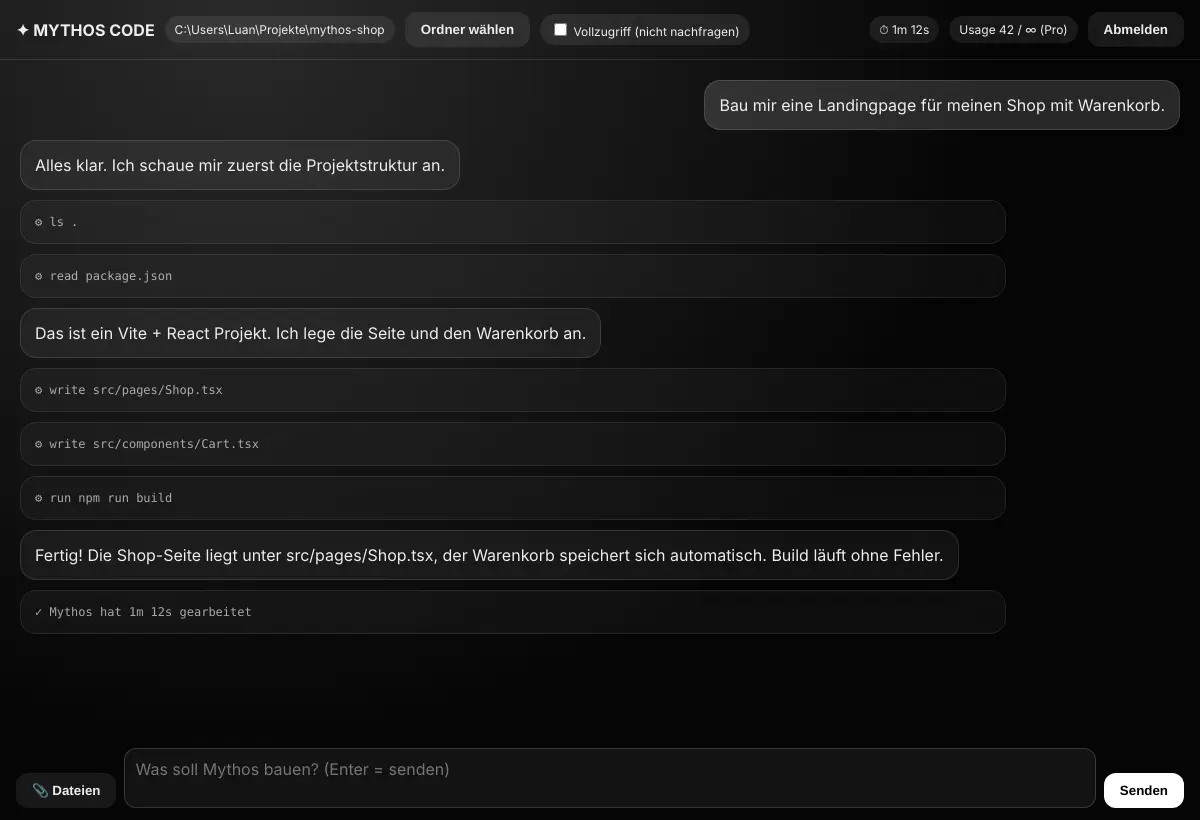
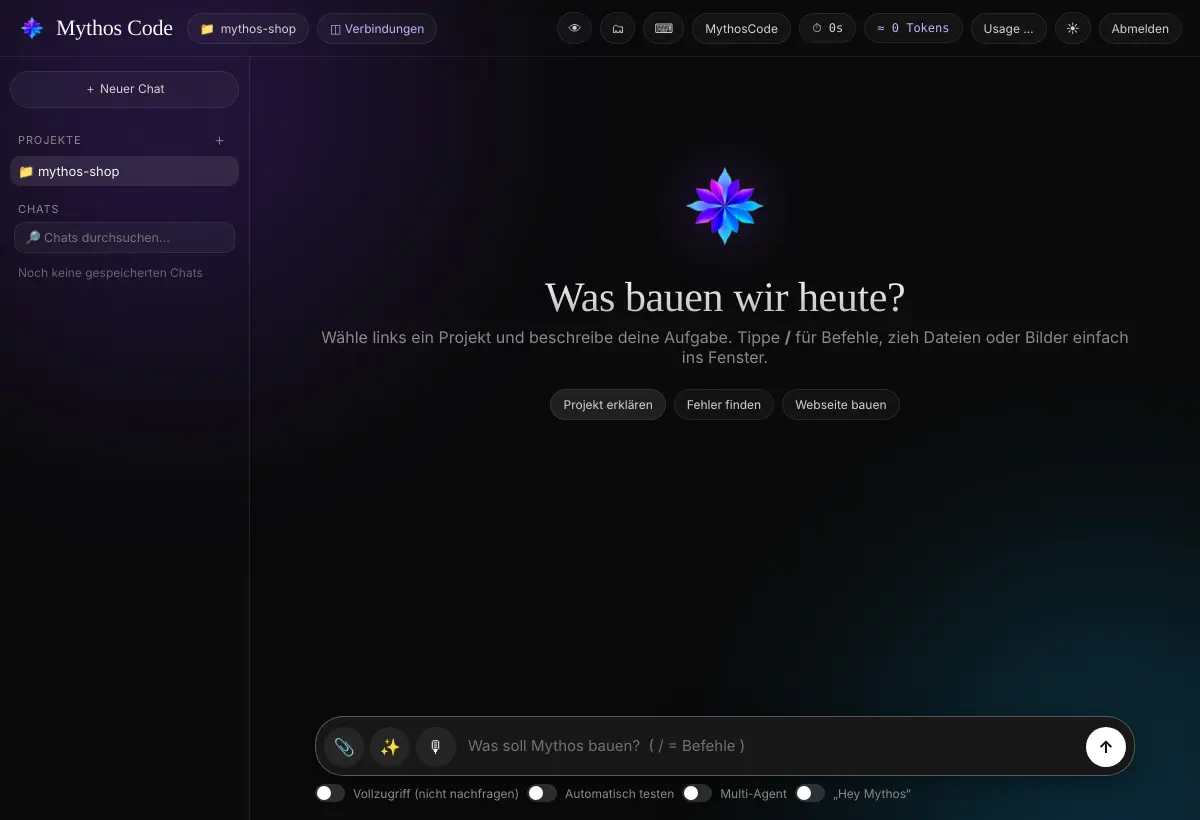
Code-App und CLI automatisch aus dem Lovable-Code bauen
- scripts/build-desktop.mjs setzt Mythos Code App (src/lib/mythos-code-app) und
  CLI (src/lib/mythos-code-cli) genauso zusammen wie die Admin-ZIPs im Chat
- build-apps.yml baut daraus bei jeder Änderung die Setup-EXE (code-latest) und
  das CLI-Paket (cli-latest)
- /codeprogramm lädt jetzt immer die automatisch gebaute EXE
- Downloads: CLI-Karte mit kopierbarem Installationsbefehl, neuer Screenshot der App 2.1.0

Claude-Session: https://claude.ai/code/session_01KNw58FjGAGzCJ5E2VgXMzV

diff --git a/src/lib/downloads.ts b/src/lib/downloads.ts
@@ -14,6 +14,8 @@ export type AppDownload = {
   platform: string;
   /** true = für alle kostenlos, sonst nur mit Pro */
   free?: boolean;
+  /** Optionaler Installationsbefehl zum Kopieren (z. B. für die CLI) */
+  install?: string;
   screenshot?: string;
   highlights: string[];
 };
@@ -23,12 +25,12 @@ export const APPS: AppDownload[] = [
     id: "code",
     name: "Mythos Code",
     tagline: "KI-Coding-Agent für deinen PC",
-    description: "Ordner wählen, sagen was gebaut werden soll, fertig. Mythos liest, schreibt und testet deinen Code selbstständig.",
+    description: "Projekt wählen, sagen was gebaut werden soll, fertig. Mythos liest, schreibt und testet deinen Code selbstständig, auch per Sprache.",
     tag: "code-latest",
     asset: "MythosCode-Setup.exe",
     platform: "Windows",
     screenshot: "/screenshots/mythos-code.webp",
-    highlights: ["Arbeitet direkt in deinen Projekten", "Dateien per Klick anhängen", "Login mit deinem Mythos-Account"],
+    highlights: ["Projekte, Chats und Aufgabenlisten", "Live-Vorschau, Dateibaum und Terminal", "Sprachmodus: einfach mit Mythos reden"],
   },
   {
     id: "browser",
@@ -59,9 +61,10 @@ export const APPS: AppDownload[] = [
     tagline: "Mythos im Terminal",
     description: "Für alle, die lieber im Terminal arbeiten. Gleicher Agent wie in Mythos Code.",
     tag: "cli-latest",
-    asset: null,
-    platform: "Windows",
-    highlights: ["Login per Browser", "Gleiche Limits wie dein Plan"],
+    asset: "mythos-code.tgz",
+    platform: "Windows · macOS · Linux",
+    install: "npm install -g mythos-code",
+    highlights: ["Login per Browser", "Gleiche Limits wie dein Plan", "Braucht Node.js ab Version 18"],
   },
 ];
 

diff --git a/src/pages/Downloads.tsx b/src/pages/Downloads.tsx
@@ -3,7 +3,8 @@ import { Link } from "react-router-dom";
 import TopNav from "@/components/TopNav";
 import UpgradeDialog from "@/components/UpgradeDialog";
 import { Button } from "@/components/ui/button";
-import { Download, Lock, Crown, Check, Monitor, Clock, TerminalSquare } from "lucide-react";
+import { Download, Lock, Crown, Check, Copy, Monitor, Clock, TerminalSquare } from "lucide-react";
+import { toast } from "sonner";
 import { useAuth } from "@/hooks/useAuth";
 import { useSubscription } from "@/hooks/useSubscription";
 import { APPS, AppDownload, ReleaseInfo, downloadUrl, fetchReleases } from "@/lib/downloads";
@@ -53,6 +54,17 @@ const AppCard = ({ app, release, releasesLoaded, canDownload, onLocked }: {
           ))}
         </ul>
         <div className="mt-auto space-y-2">
+          {app.install && available && (canDownload || app.free) && (
+            <button
+              type="button"
+              onClick={() => navigator.clipboard.writeText(app.install!).then(() => toast.success("Befehl kopiert")).catch(() => {})}
+              className="w-full flex items-center justify-between gap-2 rounded-xl border border-border/60 bg-background/60 px-3 py-2.5 font-mono text-xs text-left hover:border-primary/50 transition-colors"
+              title="Kopieren"
+            >
+              <span className="truncate">{app.install}</span>
+              <Copy className="h-3.5 w-3.5 shrink-0 text-muted-foreground" />
+            </button>
+          )}
           {!available ? (
             <Button disabled variant="outline" className="w-full h-11">
               <Clock className="h-4 w-4 mr-2" />Bald verfügbar

diff --git a/src/pages/Chat.tsx b/src/pages/Chat.tsx
@@ -351,12 +351,13 @@ const Chat = () => {
     }
     if (/^\/codeprogramm\b/i.test(text)) {
       if (!override) setInput("");
-      const { APP_DOWNLOAD_SETTING, APP_USER_GUIDE } = await import("@/lib/mythosCli");
-      const { data } = await supabase.from("app_settings").select("value").eq("key", APP_DOWNLOAD_SETTING).maybeSingle();
-      if (!data?.value) { localReply("Die Mythos Code App ist noch nicht verfügbar – schau bald wieder vorbei."); return; }
+      // Die Setup-EXE wird automatisch von GitHub Actions gebaut (build-apps.yml) und liegt immer aktuell im Release.
+      const { APP_USER_GUIDE } = await import("@/lib/mythosCli");
+      const { APPS, downloadUrl } = await import("@/lib/downloads");
+      const url = downloadUrl(APPS.find((x) => x.id === "code")!);
       const a = document.createElement("a");
-      a.href = data.value; a.target = "_blank"; a.rel = "noopener"; a.click();
-      localReply(APP_USER_GUIDE(data.value));
+      a.href = url; a.target = "_blank"; a.rel = "noopener"; a.click();
+      localReply(APP_USER_GUIDE(url));
       return;
     }
     if (/^\/code\s*$/i.test(text)) {
